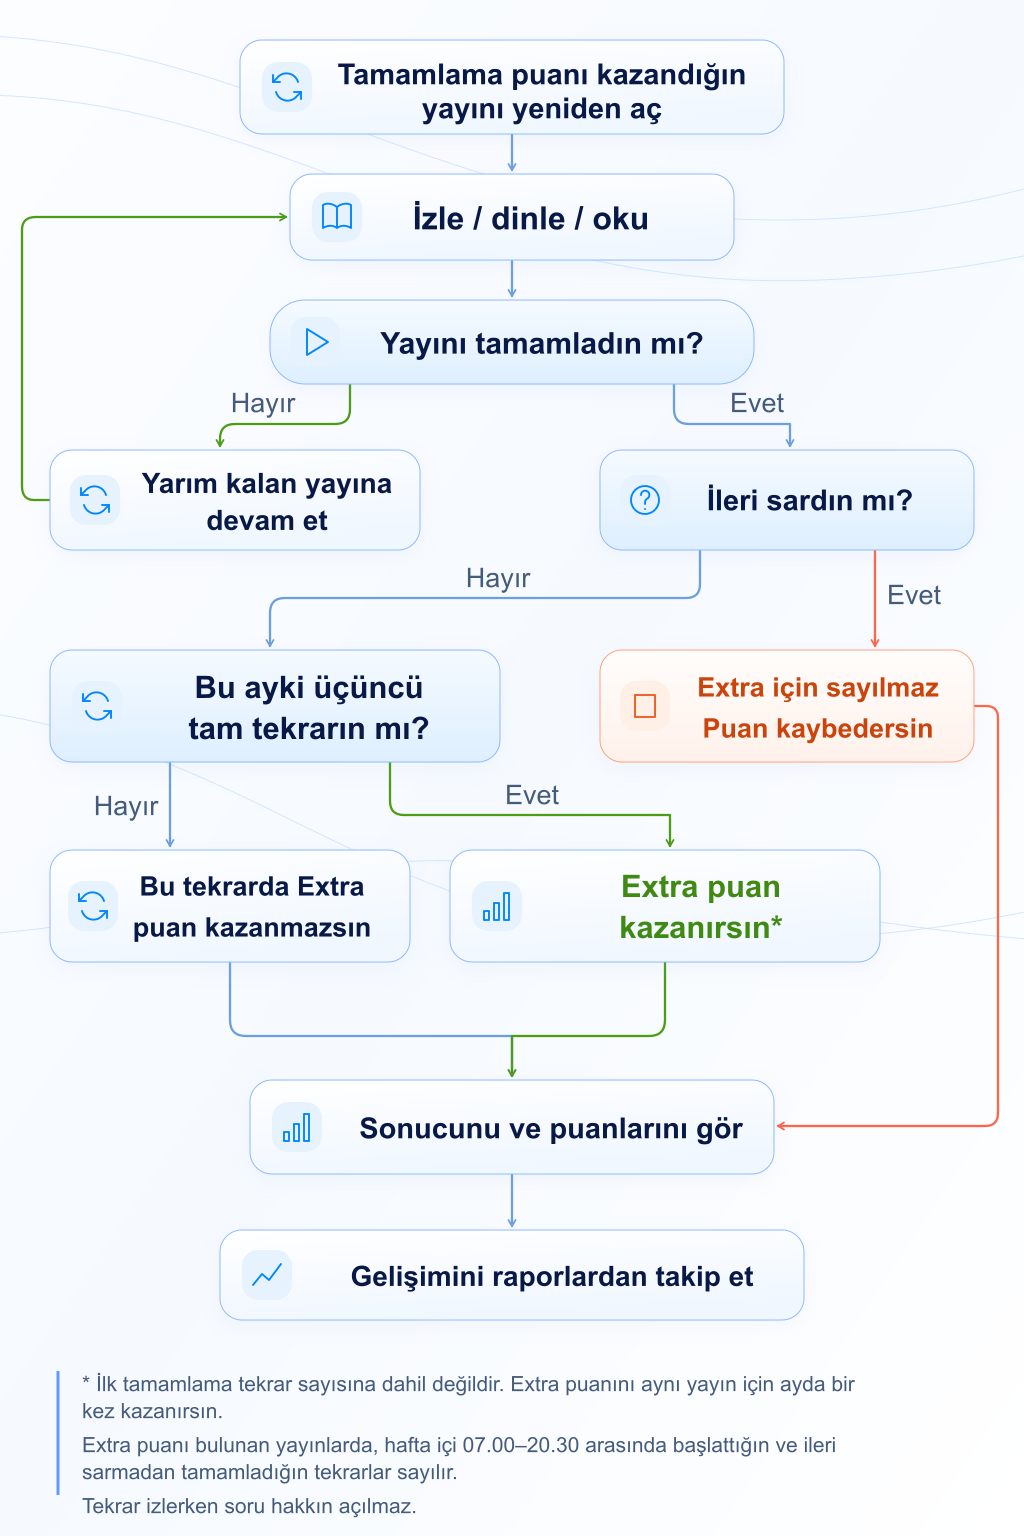
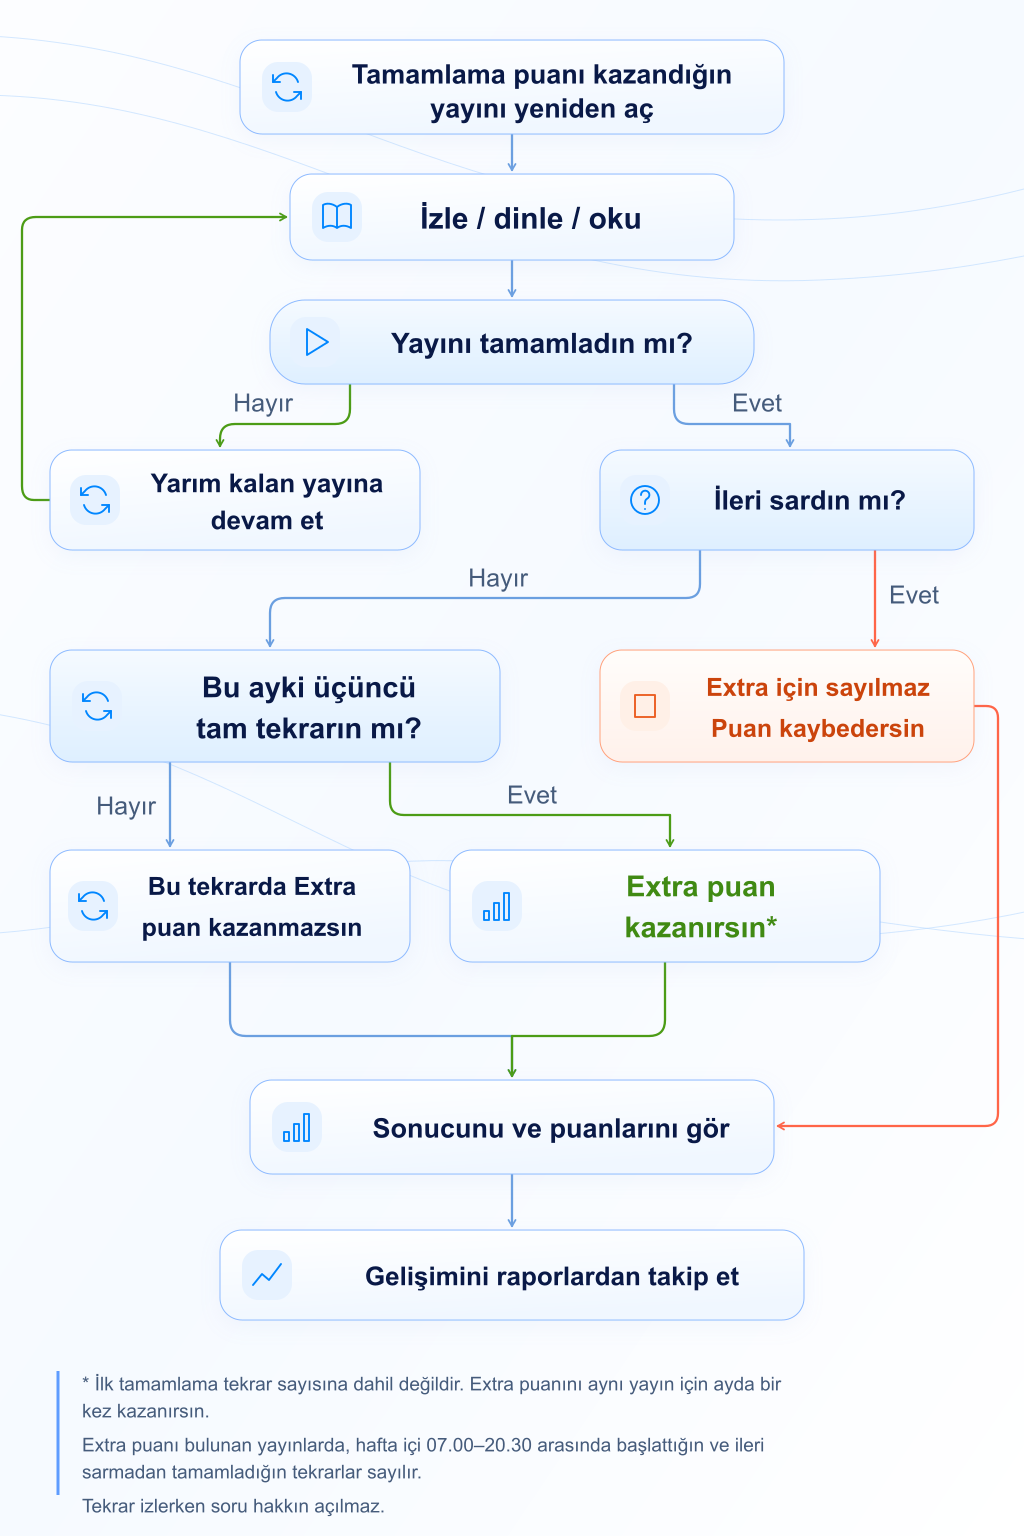
Temsilci mobil yol haritalarını tamamla

diff --git a/components/rehber/TemsilciIsAkisiKarti.tsx b/components/rehber/TemsilciIsAkisiKarti.tsx
@@ -69,11 +69,16 @@ const HARITALAR = {
 export default function TemsilciIsAkisiKarti({ kompakt = false, tetikleyici, harita = "genel" }: { kompakt?: boolean; tetikleyici?: ReactNode; harita?: keyof typeof HARITALAR }) {
   const { baslik, gorsel, aciklama, genislik, yukseklik, alt } = HARITALAR[harita];
   const [buyuk, setBuyuk] = useState(false);
-  const mobilGorsel = harita === "genel"
-    ? "/rehber/temsilci/merkez-yayinlari-mobil.webp"
-    : harita === "extra"
-      ? "/rehber/temsilci/extra-yayin-tamamlama-mobil.webp"
-      : undefined;
+  const mobilGorseller: Record<keyof typeof HARITALAR, string> = {
+    genel: "/rehber/temsilci/merkez-yayinlari-mobil.webp",
+    extra: "/rehber/temsilci/extra-yayin-tamamlama-mobil.webp",
+    oneri: "/rehber/temsilci/onerilen-yayinlar-mobil.webp",
+    eclubTakim: "/rehber/temsilci/eclub-takim-yayin-gonderme-mobil.webp",
+    eclubPuan: "/rehber/temsilci/eclub-puan-kazanma-mobil.webp",
+    eczanemGonderim: "/rehber/temsilci/eczanem-yayin-gonderme-mobil.webp",
+    eczanemMutabakat: "/rehber/temsilci/eczanem-indirim-mutabakati-mobil.webp",
+  };
+  const mobilGorsel = mobilGorseller[harita];
 
   return <Dialog.Root onOpenChange={() => setBuyuk(false)}>
     {tetikleyici ? <Dialog.Trigger asChild>{tetikleyici}</Dialog.Trigger> : <section className={`${styles.kart} ${kompakt ? styles.kompakt : ""}`} aria-label={baslik}>
